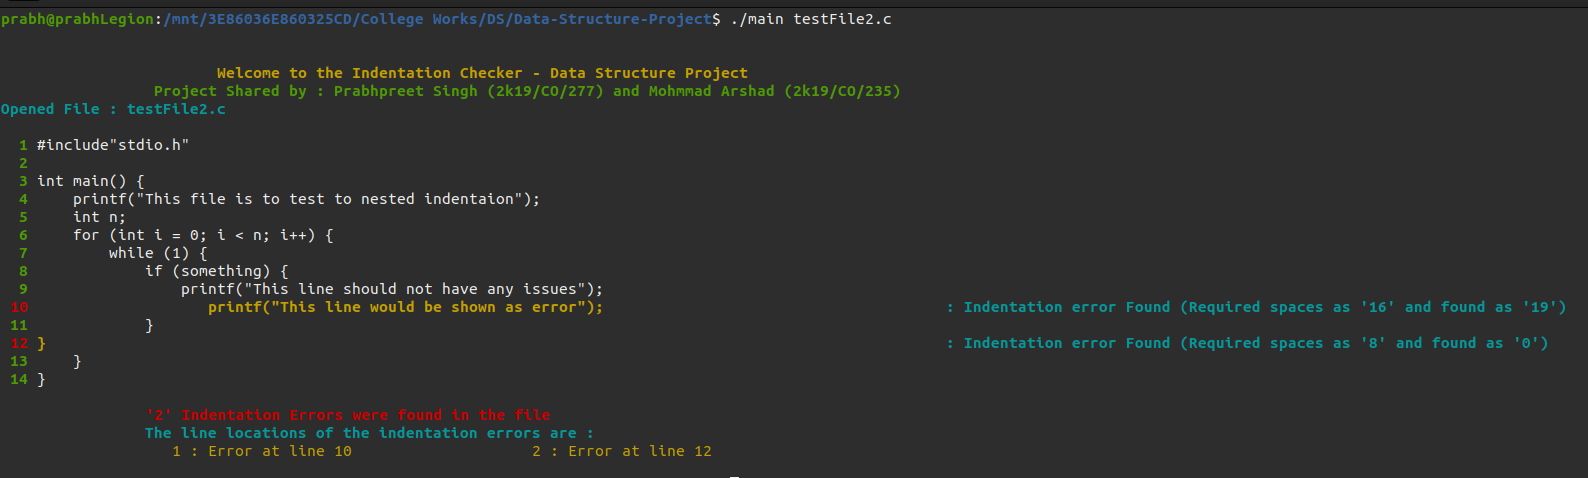
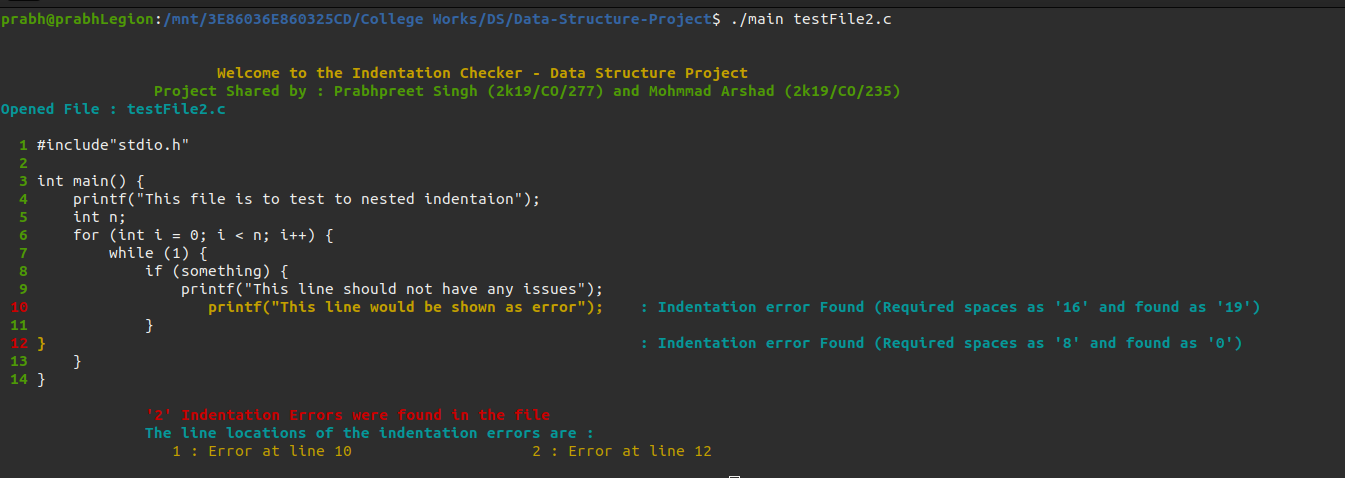
added shots

diff --git a/utilities.h b/utilities.h
@@ -66,7 +66,7 @@ void printWithIndentationError(char str[], int lineNo, int spaces, int requiredS
     printf("%s", str);
     cyan(1);
     int n  = strlen(str);
-    for (int i = 0; i < 100 - n; i++) printf(" ");
+    for (int i = 0; i < 66 - n; i++) printf(" ");
     printf(" : Indentation error Found (Required spaces as '%d' and found as '%d') \n", requiredSpaces, spaces);
     normal();
 }
